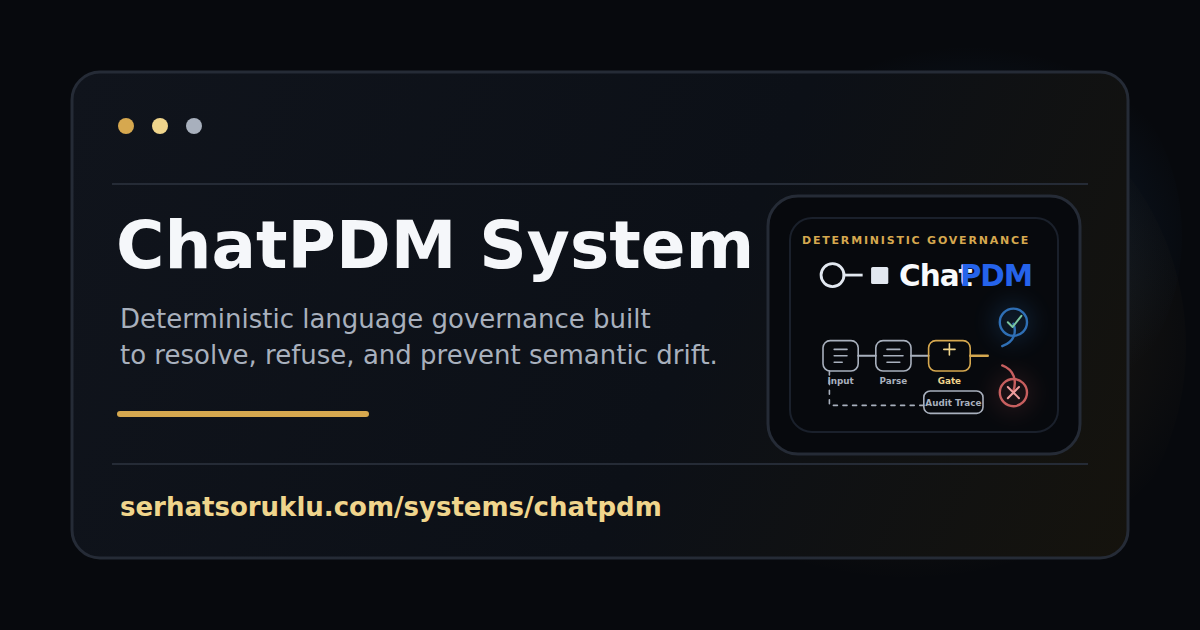
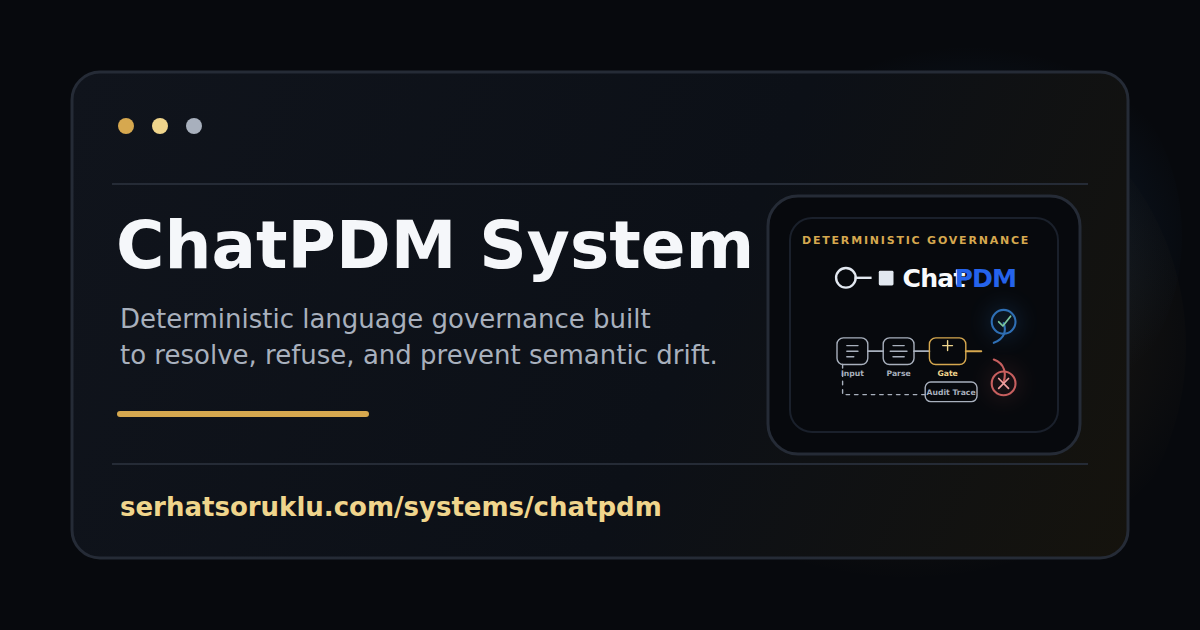
fix(social): regenerate system OG previews

Changed region(s): [[0.6783, 0.5127, 0.8633, 0.6635], [0.6783, 0.4222, 0.8633, 0.4825], [0.8325, 0.4825, 0.8633, 0.5429]]

diff --git a/production-readiness-remediation.md b/production-readiness-remediation.md
@@ -14,13 +14,13 @@ All release-blocking defects that can reasonably be corrected in this repository
 
 The public Cloudflare 520/origin outage recorded by P0-1 cannot be fixed or safely retested from this repository. Production server provisioning, reverse-proxy and Cloudflare configuration, production secret injection, hosted monitoring, and an explicitly authorised live SMTP delivery remain Serhat's deployment responsibilities. No Cloudflare, DNS, nginx, systemd, PM2, firewall, TLS, OS-package, server-user, production-host, deployment, or live-email action was performed. Release-branch, commit, push, pull-request, and CI evidence is recorded in `github-release-preparation-report.md`.
 
-The 138-path release boundary in section 8 is the intended release candidate. P0-2 is closed at the repository boundary because that exact allowlist is committed on the release branch; Git/PR/CI evidence for the publication step is recorded separately in `github-release-preparation-report.md`.
+The 141-path release boundary in section 8 is the intended release candidate. P0-2 is closed at the repository boundary because that exact allowlist is committed on the release branch; Git/PR/CI evidence for the publication step is recorded separately in `github-release-preparation-report.md`.
 
 ## 2. Files changed
 
-No file was removed. There are 78 modified release files and 60 created release files: 138 release-critical paths in total.
+No file was removed. There are 78 modified release files and 63 created release files: 141 release-critical paths in total.
 
-The five-path increase from the original 133-file remediation boundary is explained by the later release work: the tracked ChatPDM and Coupyn social-preview SVG sources, two deterministic portrait-dialog regression tests discovered during full local and CI validation, and `github-release-preparation-report.md`. The already-listed generated OG PNG derivatives remain in the boundary. No unrelated path was added.
+The eight-path increase from the original 133-file remediation boundary is explained by the later release work: the tracked ChatPDM and Coupyn social-preview SVG sources, two deterministic portrait-dialog regression tests, `github-release-preparation-report.md`, the explicit backend production entrypoint, the safe SVG path renderer, and the deterministic system-social-preview renderer. The already-listed generated OG PNG derivatives remain in the boundary. No unrelated path was added.
 
 ### Modified source, configuration, tests, documentation, and assets
 
@@ -117,6 +117,7 @@ backend/emails/templates/contactConfirmation.js
 backend/emails/templates/contactNotification.js
 backend/emails/templates/footer.js
 backend/emails/templates/layout.js
+backend/start.js
 frontend/playwright.smoke.config.ts
 frontend/public/assets/brand/favicons/favicon-16x16.png
 frontend/public/assets/brand/favicons/favicon-32x32.png
@@ -143,6 +144,7 @@ frontend/public/assets/social/serhat-soruklu-work-og.png
 frontend/public/assets/social/serhat-soruklu-writing-og.png
 frontend/public/theme-init.js
 frontend/scripts/assert-production-build.mjs
+frontend/scripts/render-system-social-previews.mjs
 frontend/scripts/smoke-production.mjs
 frontend/scripts/start-production.mjs
 frontend/src/app/app.routes.server.spec.ts
@@ -161,6 +163,7 @@ frontend/src/app/pages/velari/velari.component.html
 frontend/src/app/pages/velari/velari.component.spec.ts
 frontend/src/app/pages/velari/velari.component.ts
 frontend/src/app/pages/writing/writing.component.spec.ts
+frontend/src/app/shared/icons/path-icon.component.ts
 frontend/tests/e2e/contact.spec.ts
 frontend/tests/e2e/github.spec.ts
 frontend/tests/e2e/identity.spec.ts
@@ -194,7 +197,7 @@ The following generated evidence remains intentionally ignored and is not part o
 - **Status:** Closed at the repository boundary; the committed release branch and PR match the reconciled allowlist.
 - **Change:** Required contact/email/Soruklu Order/Velari sources, assets, and tests are present; `.gitignore` admits `.env.example` but excludes secrets and generated evidence; lockfile-only CI packages an immutable release artifact.
 - **Files and proof:** `.gitignore`, `.github/workflows/ci.yml`, package/lock files, release scripts, and every untracked application file listed in sections 2 and 8. Three clean `npm ci --ignore-scripts` installs, build assertion, smoke, E2E, and status/ignore checks pass.
-- **Limitation:** The release report captures the Git and PR proof. The external Sonar authorisation blocker must be resolved before review/merge; production deployment remains a separate decision.
+- **Limitation:** The release report captures the Git and PR proof. Sonar authorisation is restored and the authenticated quality gate is green; production deployment remains a separate decision.
 
 ### P1-1 — No real 404 or static-miss behavior
 
@@ -235,7 +238,7 @@ The following generated evidence remains intentionally ignored and is not part o
 ### P1-7 — Validation can replace production output with a development build
 
 - **Change:** Angular checking is `ngc --noEmit`; the production build follows every output-mutating check; an artifact scanner enforces hashed optimized output, production API replacement, and no source maps/development endpoint.
-- **Files and proof:** Package scripts, CI, deploy gate, README, and `assert-production-build.mjs`. The final build remained the last command to write `frontend/dist/frontend`; 115 browser files pass artifact inspection.
+- **Files and proof:** Package scripts, CI, deploy gate, README, and `assert-production-build.mjs`. The final build remained the last command to write `frontend/dist/frontend`; 116 browser files pass artifact inspection.
 - **Limitation:** Deploy the exact reviewed artifact from the intended Git SHA, not a later rebuild from another checkout.
 
 ### P1-8 — Production startup and environment selection are not deterministic
@@ -302,8 +305,8 @@ The following generated evidence remains intentionally ignored and is not part o
 ### P2-8 — Social previews are incomplete and not live-verifiable
 
 - **Status:** Repository side fixed.
-- **Change:** All 12 indexable routes use 1200×630 PNG cards with absolute URL, PNG MIME type, dimensions, and alt metadata for Open Graph and Twitter/X. The ChatPDM and Coupyn source SVGs were subsequently corrected so their right-side diagrams use smaller, balanced internal layouts with non-overlapping wordmarks, nodes, symbols, and labels.
-- **Files and proof:** Social PNGs and SVG sources, especially `serhat-soruklu-systems-chatpdm-og.svg`/`.png` and `serhat-soruklu-systems-coupyn-og.svg`/`.png`, plus SEO config/service/specs, index, and SEO E2E. Every card is measured at exactly 1200×630; the two corrected cards were rerendered from source and visually inspected at full size for containment, cropping, padding, legibility, and brand consistency.
+- **Change:** All 12 indexable routes use 1200×630 PNG cards with absolute URL, PNG MIME type, dimensions, and alt metadata for Open Graph and Twitter/X. The approved ChatPDM and Coupyn SVG sources remain intact; the checked-in raster renderer reduces and recentres only the PNGs' internal right-side wordmarks and diagrams so their nodes, symbols, and labels do not crowd or overlap.
+- **Files and proof:** Social PNGs and SVG sources, `frontend/scripts/render-system-social-previews.mjs`, the frontend render command, SEO config/service/specs, index, and SEO E2E. Every card is measured at exactly 1200×630; the two corrected PNGs reproduce deterministically and were visually inspected at full size for containment, cropping, padding, legibility, and brand consistency.
 - **Limitation:** Public fetch and social-debugger validation await restored origins and CDN purge.
 
 ### P2-9 — Remote fonts duplicate a self-hosted asset strategy
@@ -335,7 +338,7 @@ The following generated evidence remains intentionally ignored and is not part o
 
 - **Status:** Practical safe remediation complete; deeper refactoring deferred.
 - **Change:** Preserved lazy routes, removed unused dependencies and transfer-heavy shared assets, and avoided globally introducing page-specific functionality. Sampled unused JS is approximately 22–24 KB per route.
-- **Files and proof:** Route config, package files, assets/fonts/styles, final build, and Lighthouse. The initial bundle remains under the 500 kB warning threshold at 498.79 kB raw/123.26 kB estimated transfer.
+- **Files and proof:** Route config, package files, assets/fonts/styles, final build, and Lighthouse. The initial bundle remains under the 500 kB warning threshold at 499.39 kB raw/123.28 kB estimated transfer.
 - **Limitation:** Headroom remains narrow. Deeper shared-library/CSS refactoring is a non-blocking follow-up, not a safe pre-launch micro-optimisation.
 
 ### P2-14 — Environment documentation contains stale or mismatched keys
@@ -407,9 +410,9 @@ Lockfile integrity was proved with clean `npm ci --ignore-scripts` installs at r
 | Firefox smoke | 12/12 routes passed |
 | WebKit smoke | 0 application cases executed; all 12 launches were blocked before app startup by missing WSL native GTK/GStreamer/libevent libraries |
 | Lighthouse | 5/5 required routes completed using stable Chrome 136 |
-| OG visual correction | ChatPDM and Coupyn: 2/2 SVG sources rerendered to exact 1200×630 PNGs and visually passed containment, overlap, cropping, spacing, text, and branding checks |
-| Production build | Passed: browser initial bundle 498.79 kB raw/123.26 kB estimated transfer; SSR server bundle 851.49 kB |
-| Artifact assertion | 115 browser files verified; hashed production bundles, production API replacement, and 0 source maps |
+| OG visual correction | ChatPDM and Coupyn: 2/2 deterministic PNG renders and targeted Chromium asset tests passed; full-size visual review passed containment, overlap, cropping, spacing, text, and branding checks; SVG sources remained unchanged |
+| Production build | Passed: browser initial bundle 499.39 kB raw/123.28 kB estimated transfer; SSR server bundle 852.56 kB |
+| Artifact assertion | 116 browser files verified; hashed production bundles, production API replacement, and 0 source maps |
 | Production smoke | Passed security headers, nonce uniqueness, compression, cache policy, statuses, redirects, hydration assets, graceful startup, and invalid-integer environment checks |
 | Backend production startup | Passed on isolated port 3001: liveness 200, readiness 200 with safe synthetic config and verification disabled, landing/assets 200, allowed CORS 200, denied CORS 403, unknown API 404, clean SIGINT |
 | Dependency audits | 3/3 production audits and 3/3 full-tree audits passed with 0 vulnerabilities |
@@ -435,8 +438,8 @@ Lighthouse values are comparative local evidence, not promises of live productio
 
 | Artifact metric | Before | After | Interpretation |
 | --------------- | -----: | ----: | -------------- |
-| Initial browser bundle, raw | 494.23 kB | 498.79 kB | Still below the 500 kB warning budget; security/reliability code used some remaining headroom |
-| Initial browser bundle, estimated transfer | 121.80 kB | 123.26 kB | Increase of 1.46 kB while total route transfer fell by about 86–89% |
+| Initial browser bundle, raw | 494.23 kB | 499.39 kB | Still below the 500 kB warning budget; security/reliability code used some remaining headroom |
+| Initial browser bundle, estimated transfer | 121.80 kB | 123.28 kB | Increase of 1.48 kB while total route transfer fell by about 86–89% |
 | Optimised favicon SVG file | 1,802,859 bytes | 1,667 bytes | Original emblem preserved without embedded high-resolution payload |
 | Total icon transfer observed | 1,818,590 bytes | 8,656 bytes | Includes SVG/PNG/ICO requests seen by the browser |
 
@@ -581,7 +584,7 @@ package.json
 scripts/deploy.sh
 ```
 
-The release commits also include these exact 60 created required files, including all three release records:
+The release commits also include these exact 63 created required files, including all three release records:
 
 ```text
 backend/.env.example
@@ -593,6 +596,7 @@ backend/emails/templates/contactConfirmation.js
 backend/emails/templates/contactNotification.js
 backend/emails/templates/footer.js
 backend/emails/templates/layout.js
+backend/start.js
 frontend/playwright.smoke.config.ts
 frontend/public/assets/brand/favicons/favicon-16x16.png
 frontend/public/assets/brand/favicons/favicon-32x32.png
@@ -619,6 +623,7 @@ frontend/public/assets/social/serhat-soruklu-work-og.png
 frontend/public/assets/social/serhat-soruklu-writing-og.png
 frontend/public/theme-init.js
 frontend/scripts/assert-production-build.mjs
+frontend/scripts/render-system-social-previews.mjs
 frontend/scripts/smoke-production.mjs
 frontend/scripts/start-production.mjs
 frontend/src/app/app.routes.server.spec.ts
@@ -637,6 +642,7 @@ frontend/src/app/pages/velari/velari.component.html
 frontend/src/app/pages/velari/velari.component.spec.ts
 frontend/src/app/pages/velari/velari.component.ts
 frontend/src/app/pages/writing/writing.component.spec.ts
+frontend/src/app/shared/icons/path-icon.component.ts
 frontend/tests/e2e/contact.spec.ts
 frontend/tests/e2e/github.spec.ts
 frontend/tests/e2e/identity.spec.ts
@@ -671,4 +677,4 @@ The remediation pass itself did not stage, commit, push, publish, or deploy file
 
 ## 9. Final repository recommendation
 
-CODE READY: RESOLVE CI AUTHORISATION BEFORE REVIEW OR MERGE
+CODE READY: MERGE VERIFIED RELEASE PR

diff --git a/github-release-preparation-report.md b/github-release-preparation-report.md
@@ -12,7 +12,7 @@ Pull request: <https://github.com/SerhatSoruklu/serhat-soruklu-web/pull/14>
 
 GITHUB RELEASE CANDIDATE READY FOR REVIEW
 
-The release-candidate code is verified at `bb1500668b2712ce5ddaca13c99e455a2e43def9`. All seven GitHub checks on that exact head are green, including the complete release-candidate gate, SonarQube analysis, and SonarCloud Code Analysis. The Sonar credential was renewed and the findings from the first authenticated analysis were fixed in source without skipping, weakening, or suppressing the quality gate. Pull request 14 remains deliberately open and unmerged for review.
+The release-candidate code before the final OG raster correction is verified at `74449eab8cf34ac0c954c839f9834513ae1a98ed`. All seven GitHub checks on that exact head are green, including the complete release-candidate gate, SonarQube analysis, and SonarCloud Code Analysis. The Sonar credential was renewed and the findings from the first authenticated analysis were fixed in source without skipping, weakening, or suppressing the quality gate. The final checked-in OG renderer and corrected PNGs must receive the same exact-head qualification before pull request 14 is merged.
 
 ## 2. Recovery evidence
 
@@ -31,7 +31,7 @@ The archive contains the 59 required files that were untracked at the backup poi
 - Starting SHA: `3f1f4f98fcbec5b79b51e0fdd63b365e3c616462`
 - Release branch: `release/serhatsoruklu-production-ready-2026-07-18`
 - Pushed application-code evidence SHA: `39dcab09037d0b89173873e00aab63e3b5dbcdcc`
-- Final verified release-candidate SHA: `bb1500668b2712ce5ddaca13c99e455a2e43def9`
+- Last verified pre-OG-correction SHA: `74449eab8cf34ac0c954c839f9834513ae1a98ed`
 - Pull request: <https://github.com/SerhatSoruklu/serhat-soruklu-web/pull/14>
 - Target branch: `main`
 - Pull-request state: open, ready for review, and deliberately unmerged
@@ -56,6 +56,7 @@ The logical commits through the verified release-candidate code head are:
 | `d12fadc6febda9af651c6e427fab1f7d56ed781d` | `docs(release): record GitHub release preparation` |
 | `7b7e7a9d3c00893cd7db27e92e1f647a71f917a0` | `Fix Sonar security and reliability gate` |
 | `bb1500668b2712ce5ddaca13c99e455a2e43def9` | `Allowlist canonical redirect targets` |
+| `74449eab8cf34ac0c954c839f9834513ae1a98ed` | `docs(release): record green quality gates` |
 
 This report is carried by one final explicit-path documentation commit after the verified code head. Its immutable SHA is recorded by the release branch and PR head because a commit cannot embed its own SHA without changing that SHA; the final operator handoff records the exact pushed head and confirms it matches GitHub.
 
@@ -63,9 +64,9 @@ Every commit was staged from an explicit path list. Before each commit, the cach
 
 ## 4. Release boundary
 
-The documented baseline was 133 release-critical files: 74 modified required files and 59 untracked required files. The final committed boundary is 140 files: 78 modified files and 62 added files, with no deletion.
+The documented baseline was 133 release-critical files: 74 modified required files and 59 untracked required files. The final intended boundary is 141 files: 78 modified files and 63 added files, with no deletion.
 
-The seven added paths relative to the documented baseline are:
+The eight added paths relative to the documented baseline are:
 
 1. `frontend/public/assets/social/serhat-soruklu-systems-chatpdm-og.svg` — tracked source corrected for the ChatPDM preview composition.
 2. `frontend/public/assets/social/serhat-soruklu-systems-coupyn-og.svg` — tracked source corrected for the Coupyn preview composition.
@@ -74,10 +75,11 @@ The seven added paths relative to the documented baseline are:
 5. `github-release-preparation-report.md` — required release-preparation evidence.
 6. `backend/start.js` — explicit production entrypoint separated from the importable backend server module.
 7. `frontend/src/app/shared/icons/path-icon.component.ts` — safe compile-time SVG path rendering without an Angular sanitisation bypass.
+8. `frontend/scripts/render-system-social-previews.mjs` — deterministic Chromium renderer for the final ChatPDM and Coupyn PNG compositions.
 
 Removed paths versus the documented baseline: none.
 
-The regenerated ChatPDM and Coupyn PNGs were already in the original 59-file untracked allowlist; their two SVG sources explain the OG-related count change. Both PNGs are exact 1200 × 630, visually contained, uncropped, non-overlapping, readable, evenly padded, and consistent with the existing premium dark black/gold/blue identity.
+The regenerated ChatPDM and Coupyn PNGs were already in the original 59-file untracked allowlist; their two SVG sources and the renderer explain the OG-related count change. The approved SVG sources remain unchanged by the final correction. The checked-in renderer applies PNG-specific internal scaling and centring so both 1200 × 630 PNGs are visually contained, uncropped, non-overlapping, readable, evenly padded, and consistent with the existing premium dark black/gold/blue identity.
 
 All required source, configuration, tests, documentation, and assets are committed. The local and paginated GitHub PR path sets match. No real environment file, credential, generated build, test result, coverage file, browser profile, Lighthouse report, screenshot, trace, video, cache, or source map is introduced by the release diff. `backend/.env` and `backend/.env.production` remain ignored and untracked; only the redacted `backend/.env.example` is committed.
 
@@ -98,6 +100,7 @@ All required source, configuration, tests, documentation, and assets are committ
 | Production build | Passed; browser initial bundle 499.39 kB raw/123.28 kB estimated transfer and SSR server bundle 852.56 kB |
 | Production artifact assertion | Passed: 116 browser files, hashed bundles, production API replacement, SSR entry, and 0 emitted source maps |
 | Production HTTP smoke | Passed headers, CSP nonce uniqueness, compression, caching, status/redirect semantics, startup, and graceful shutdown |
+| OG raster validation | 2/2 targeted Chromium asset tests passed; deterministic rerender hashes matched and both PNGs were visually inspected at full 1200 × 630 size |
 | Dependency audits | 3/3 production and 3/3 full-tree audits passed with `found 0 vulnerabilities` |
 | Secret scans | 0 high-confidence findings in 252 release source files; 0 in valid branch/tag/remote history; 0 sensitive environment-path commits |
 | Markdown lint | 5/5 changed Markdown files passed with 0 issues |
@@ -119,7 +122,7 @@ The final local production build, artifact assertion, and production smoke valid
 | SonarQube analysis | PASS | Credential rotation authenticated; tests, coverage, build, scanner execution, and analysis acceptance completed successfully |
 | SonarCloud Code Analysis | PASS | New reliability, security, and maintainability ratings are A; coverage is 81.8%; duplication is 0.5%; security-hotspot review is 100% |
 
-The renewed token exposed genuine quality-gate findings after the first authenticated scan. The remediation removed Angular sanitisation bypasses, eliminated reflected redirect input through a fixed route allowlist, replaced insecure random identifiers with Web Crypto, corrected reliability and accessibility defects, and separated the backend production entrypoint from its importable server module. The final scan and every other check are green on `bb1500668b2712ce5ddaca13c99e455a2e43def9`.
+The renewed token exposed genuine quality-gate findings after the first authenticated scan. The remediation removed Angular sanitisation bypasses, eliminated reflected redirect input through a fixed route allowlist, replaced insecure random identifiers with Web Crypto, corrected reliability and accessibility defects, and separated the backend production entrypoint from its importable server module. The final scan and every other check are green on the last verified head, `74449eab8cf34ac0c954c839f9834513ae1a98ed`. The operator handoff records the later exact OG-correction head after its fresh checks complete.
 
 ## 7. Remaining deployment work
 
@@ -138,6 +141,6 @@ The dedicated-server folder does not currently exist, nginx is not configured, f
 
 ## 8. Next exact action
 
-Review pull request 14. Its verified code parent is `bb1500668b2712ce5ddaca13c99e455a2e43def9`; the final report-only head is recorded in the operator handoff. If intended, explicitly authorise merging pull request 14 into `main`. Dedicated-server or production deployment remains a separate authorisation and must not be inferred from this GitHub publication.
+Merge authorisation has been granted. Push the final OG-correction commit, require all checks to pass on that exact head, then merge pull request 14 under repository policy. Dedicated-server or production deployment remains a separate authorisation and must not be inferred from this GitHub publication.
 
 GITHUB PR READY FOR REVIEW: ALL REQUIRED CHECKS PASS
